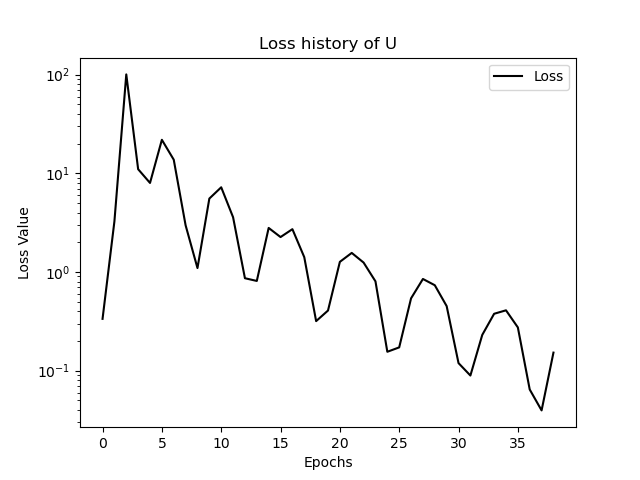
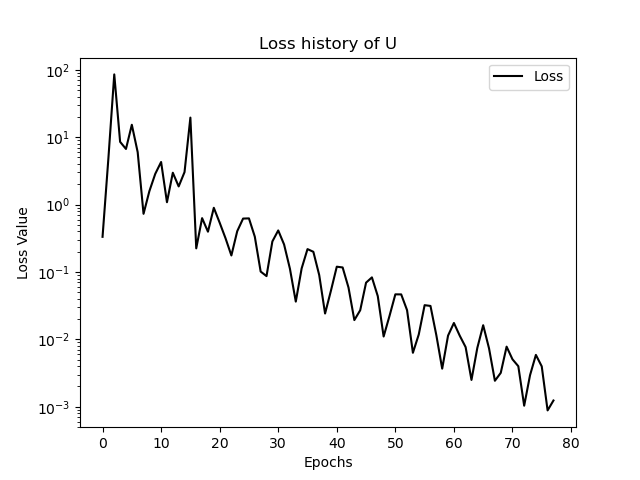
interface of func train() improved

diff --git a/FNN/train.py b/FNN/train.py
@@ -15,10 +15,15 @@ from Common.Regression  import Regression
 from Common.FSimDataset import FSimDataset
 
 # -----------------------------------------------------------------------------
-def train(numOfEpochs:int=5, fields:list=["T"], trainSet:list=["C001"], testSet:list=["C002"] )->bool:
+def train(epochList:list, fields:list, trainSet:list, testSet:list )->bool:
   """
   Train the FNN model by a give trainset, in which some cases field included.
+  - epochList: list of epochs for each field, such as [1,2,1,5,3]
+  - fields   : list of variable names, such as ["P", "U"]
+  - trainSet : list of case names in train set, each is a string
+  - testSet  : list of case names in test set, each is a string
   """
+
   iSuccess = False
 
   #----------------------------------------------------------------------------
@@ -33,7 +38,6 @@ def train(numOfEpochs:int=5, fields:list=["T"], trainSet:list=["C001"], testSet:
   ifield = 0
 
   for var in fields:
-    ifield += 1
     fsDataset_train = FSimDataset(filePathH5, trainSet, var)
 
     # gen a obj as regression, and then train the model
@@ -42,7 +46,8 @@ def train(numOfEpochs:int=5, fields:list=["T"], trainSet:list=["C001"], testSet:
     print(f"Now we train the {var} field:")
 
     # train the model
-    epochs = numOfEpochs
+    epochs = epochList[ifield]
+
     for i in range(epochs):
       print(f"  - Training Epoch {i+1} of {epochs} for {var}")
       for inp, label, _ in fsDataset_train:
@@ -53,7 +58,6 @@ def train(numOfEpochs:int=5, fields:list=["T"], trainSet:list=["C001"], testSet:
     # draw the history of lss
     DirPNG = Path("./Pics")
     R.saveLossHistory2PNG(DirPNG)
-    pass
 
     # 预测，并与测试集比较
     # predict and compare with the test set
@@ -65,10 +69,15 @@ def train(numOfEpochs:int=5, fields:list=["T"], trainSet:list=["C001"], testSet:
     # 1-predict first and then write the predicting data to h5 database
     # coordinates are optional
 
-    if ifield == 1:
+
+    # the coordinates need to write only one time
+    if ifield == 0:
       R.write2HDF(inp, Path("./fnn.h5"), coords=coords)
     else:
       R.write2HDF(inp, Path("./fnn.h5"), coords=None)
+
+    ifield += 1
+    pass
 
   iSuccess = True
   return iSuccess

diff --git a/FNN/FNN_main.py b/FNN/FNN_main.py
@@ -29,16 +29,21 @@ h5 = h5py.File("./fnn.h5", 'w')
 h5.close()
 
 #------------------------------------------------------------------------------
-# train the fields one has assigned, which must belong in ["P", "T", "U", "V", "W"]
+# train the fields one has assigned, which must belong in
+# ["P", "T", "U", "V", "W"]
 
-varfiels = ["T", "P", "U", "V", "W"]
-iSuccess = train( numOfEpochs=1, fields=varfiels , trainSet=trnSet, testSet=tstSet )
+varFields = ["T", "P", "U", "V", "W"]
+epochList = [3, 3, 2, 3, 2]
+
+iSuccess = train( epochList = epochList,
+                  fields    = varFields ,
+                  trainSet  = trnSet,
+                  testSet   = tstSet )
+
 #print("Train Pres Successed? ", iSuccess)
 
 #------------------------------------------------------------------------------
-# predict by the trained FNN model
+# predict by the trained FNN model and write the data into database
 
 
-#------------------------------------------------------------------------------
-# write the predicted fields onto database, i.e. a new hdf5 file
 
